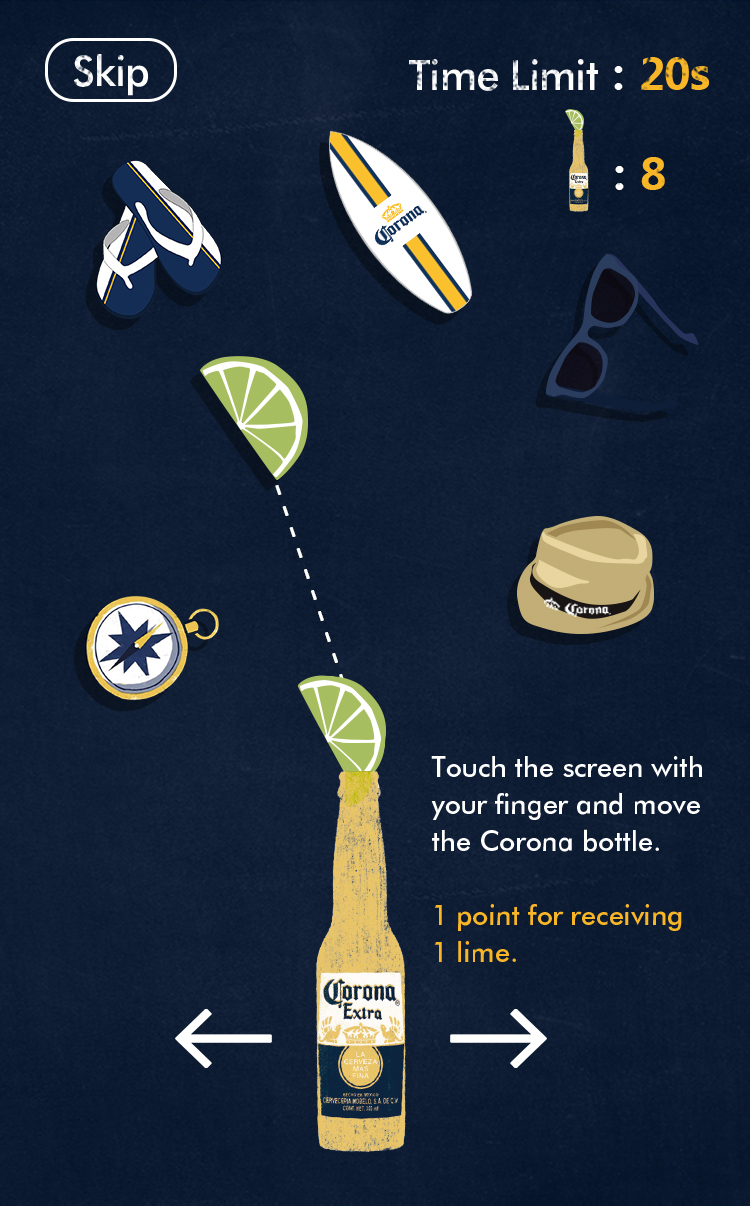
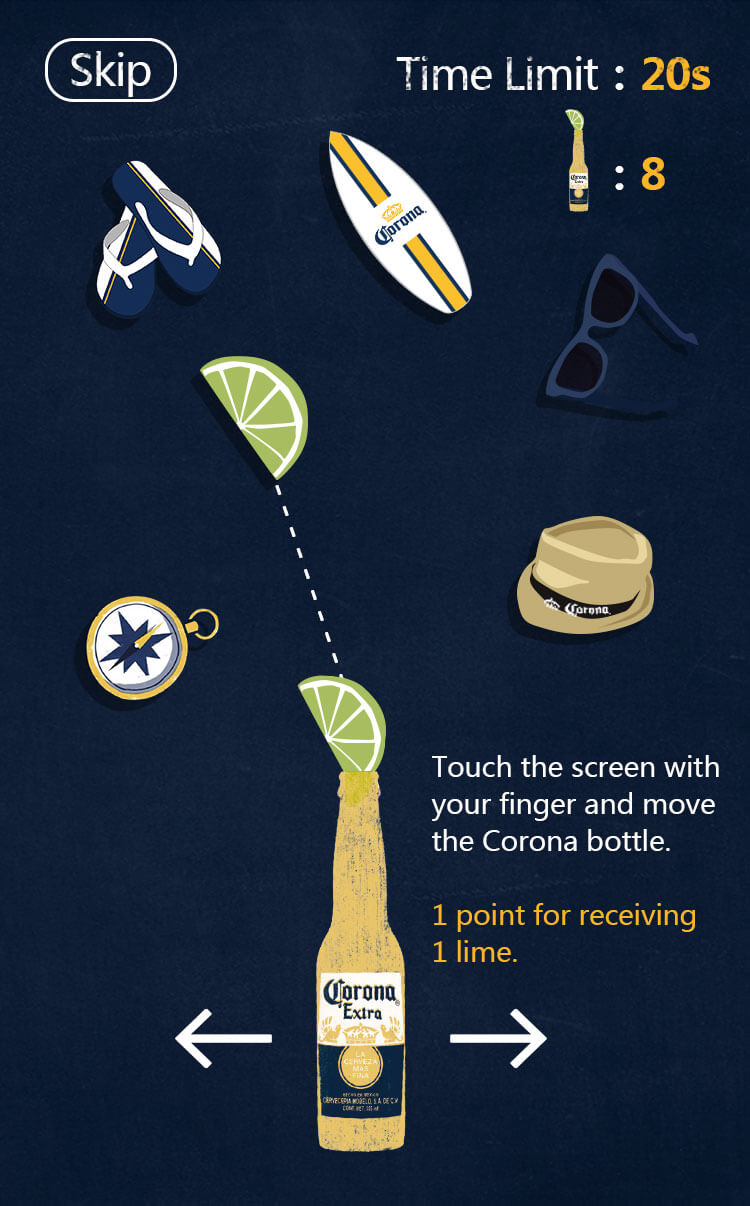
corona

diff --git a/css/style.css b/css/style.css
@@ -10,7 +10,7 @@ html,body{
 }
 body{
 	color: #fff;
-	font-family: font-family: -apple-system, BlinkMacSystemFont, "Segoe UI", Roboto, "Helvetica Neue", Arial, sans-serif, "Apple Color Emoji", "Segoe UI Emoji", "Segoe UI Symbol";
+	font-family: microsoft yahei, arial;
 	background: #132039 url(../img/bg.jpg) center;
 	background-size: cover;
 }
